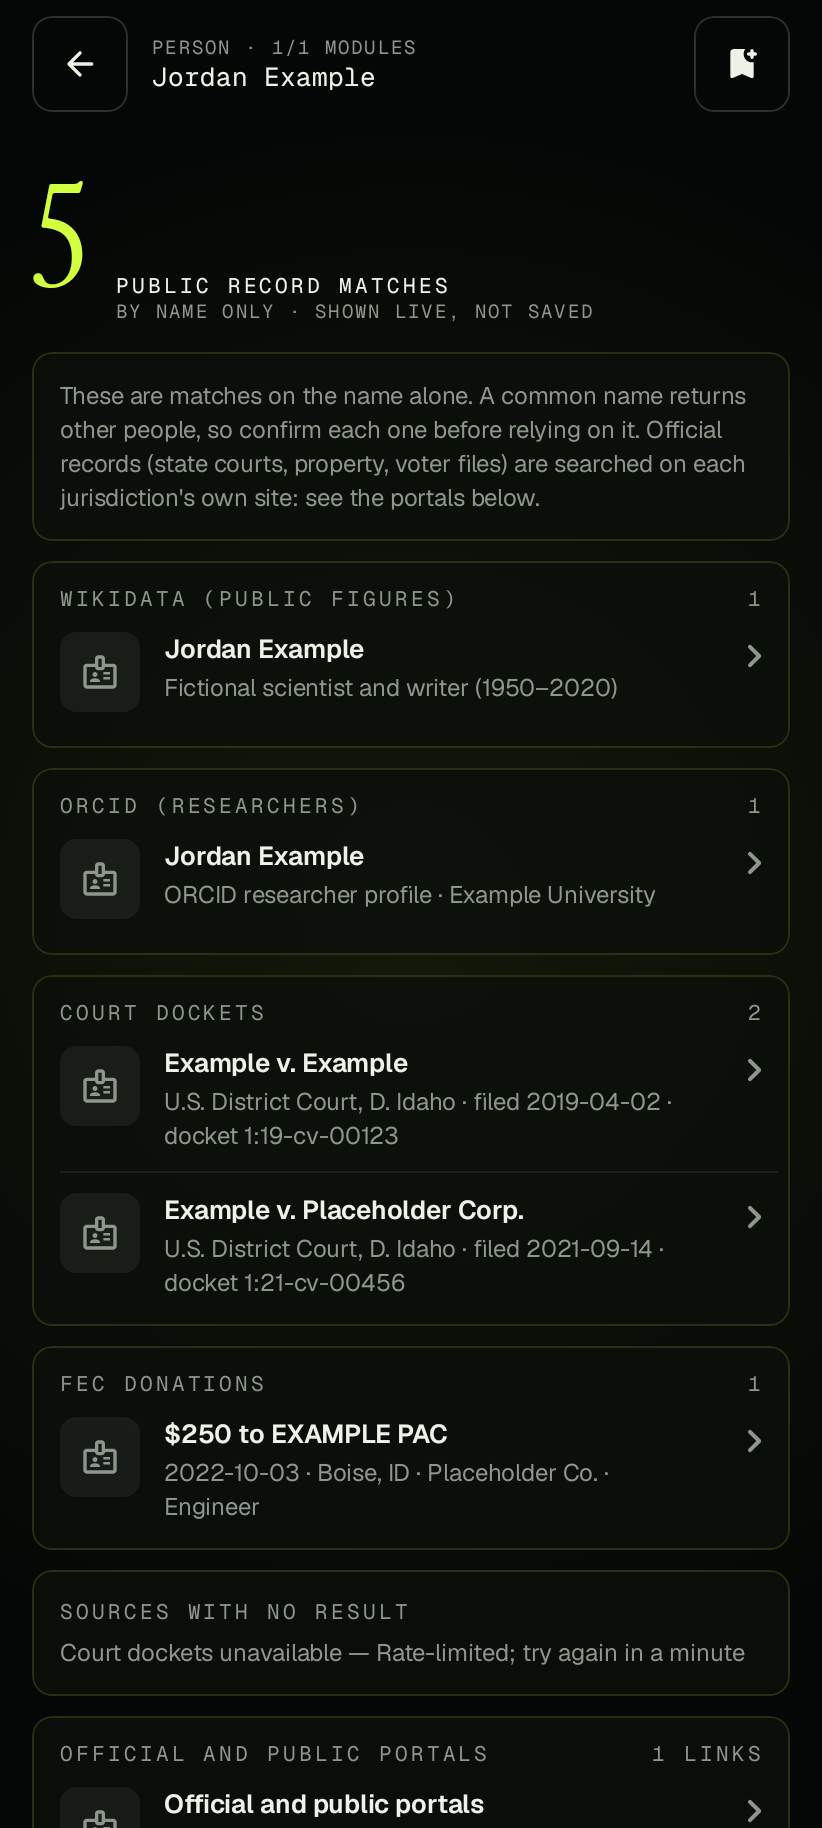
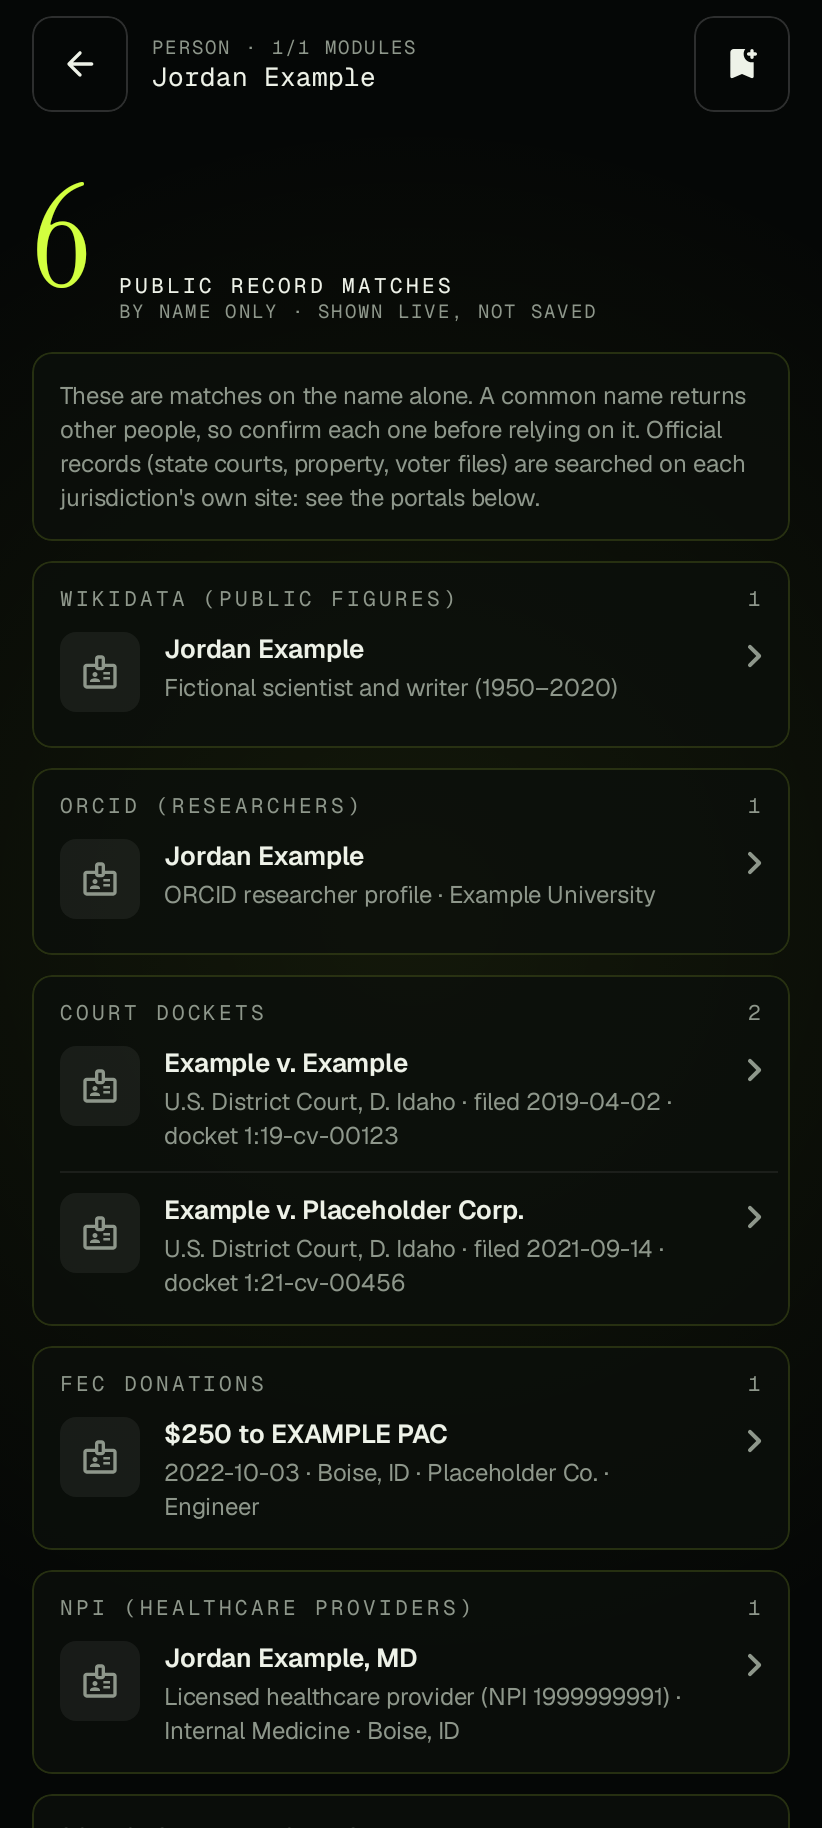
Name search: NPI registry and OpenAlex sources, FEC demo-key fallback, people-finder sites as browser links
Claude-Session: https://claude.ai/code/session_018A3LeNHC25Dd1z2KQ4XMJz

diff --git a/app/src/main/kotlin/vip/ringling/recon/data/sources/people/People.kt b/app/src/main/kotlin/vip/ringling/recon/data/sources/people/People.kt
@@ -85,7 +85,63 @@ object PeopleParsers {
             )
         }.take(10)
 
-    /** Official and public portals with the name filled in where the portal supports it. No people-finder or data-broker sites. */
+    private fun titleCase(s: String) = s.lowercase().split(' ').joinToString(" ") { w -> w.split('-').joinToString("-") { p -> p.replaceFirstChar { it.uppercase() } } }
+
+    /** CMS NPI registry (US healthcare providers). Only name, credential, specialty and practice city/state are read: never street addresses or phone numbers. */
+    fun npi(body: String): List<Finding> =
+        json.parseToJsonElement(body).jsonObject["results"]?.jsonArray.orEmpty().mapNotNull { e ->
+            val o = e.jsonObject; val number = o.s("number") ?: return@mapNotNull null
+            val basic = o["basic"]?.jsonObject ?: return@mapNotNull null
+            val name = listOfNotNull(basic.s("first_name"), basic.s("last_name")).joinToString(" ").let(::titleCase).ifBlank { return@mapNotNull null }
+            val credential = basic.s("credential")
+            val specialty = (o["taxonomies"] as? JsonArray).orEmpty().map { it.jsonObject }.let { t -> (t.firstOrNull { it["primary"].str() == "true" } ?: t.firstOrNull())?.s("desc") }
+            val addr = (o["addresses"] as? JsonArray).orEmpty().map { it.jsonObject }.let { a -> a.firstOrNull { it.s("address_purpose") == "LOCATION" } ?: a.firstOrNull() }
+            val where = listOfNotNull(addr?.s("city")?.let(::titleCase), addr?.s("state")).joinToString(", ")
+            hit("npi-$number", name + (credential?.let { ", $it" } ?: ""), listOfNotNull("Licensed healthcare provider (NPI $number)", specialty, where.ifBlank { null }).joinToString(" · "), "https://npiregistry.cms.hhs.gov/provider-view/$number", "NPI (healthcare providers)")
+        }.take(5)
+
+    /** OpenAlex author records (publications). */
+    fun openAlex(body: String): List<Finding> =
+        json.parseToJsonElement(body).jsonObject["results"]?.jsonArray.orEmpty().mapNotNull { e ->
+            val o = e.jsonObject; val id = o.s("id") ?: return@mapNotNull null; val name = o.s("display_name") ?: return@mapNotNull null
+            val inst = (o["last_known_institutions"] as? JsonArray).orEmpty().mapNotNull { it.jsonObject.s("display_name") }.firstOrNull()
+            val works = (o["works_count"] as? JsonPrimitive)?.contentOrNull; val cites = (o["cited_by_count"] as? JsonPrimitive)?.contentOrNull
+            hit("openalex-" + id.substringAfterLast('/'), name, listOfNotNull(works?.let { "$it publications" }, cites?.let { "$it citations" }, inst).joinToString(" · ").ifBlank { "Author record" }, id, "OpenAlex (publications)")
+        }.take(5)
+
+    /**
+     * Commercial people-finder sites, as plain links the user opens in their own browser. Recon never requests them, scrapes them or sends them anything.
+     * They aggregate public records, but their data is often old or wrong and may include home addresses and phone numbers.
+     */
+    fun finders(name: String): Finding {
+        val parts = name.trim().split(Regex("\\s+")).filter { it.isNotBlank() }
+        val first = parts.firstOrNull().orEmpty(); val last = parts.lastOrNull().orEmpty()
+        fun e(s: String) = URLEncoder.encode(s, "UTF-8").replace("+", "%20")
+        val dash = "$first-$last"
+        val links = listOf(
+            Link("TruePeopleSearch", "https://www.truepeoplesearch.com/results?name=${e(name)}"),
+            Link("FastPeopleSearch", "https://www.fastpeoplesearch.com/name/${e(dash.lowercase())}"),
+            Link("Whitepages", "https://www.whitepages.com/name/${e(dash)}"),
+            Link("Spokeo", "https://www.spokeo.com/${e(dash)}"),
+            Link("That's Them", "https://thatsthem.com/name/${e(dash)}"),
+            Link("Radaris", "https://radaris.com/p/${e(first)}/${e(last)}/"),
+            Link("PeekYou", "https://www.peekyou.com/${e("${first}_$last".lowercase())}"),
+            Link("ZabaSearch", "https://www.zabasearch.com/people/${e("$first $last".lowercase()).replace("%20", "+")}/"),
+            Link("FamilyTreeNow", "https://www.familytreenow.com/search/genealogy/results?first=${e(first)}&last=${e(last)}"),
+            Link("Intelius", "https://www.intelius.com/people-search/${e(dash)}"),
+            Link("BeenVerified", "https://www.beenverified.com/people/${e(dash.lowercase())}/"),
+            Link("Nuwber", "https://nuwber.com/search?name=${e(name)}"),
+            Link("Facebook people search", "https://www.facebook.com/public/${e(dash)}"),
+            Link("LinkedIn people search", "https://www.linkedin.com/pub/dir?firstName=${e(first)}&lastName=${e(last)}"),
+        )
+        return Finding(
+            "PEOPLE-finders", ModuleId.PEOPLE, "People-finder sites",
+            "Commercial sites that aggregate public records. Recon only opens them in your browser. Their data is often outdated or about someone else with the same name, can include home addresses and phone numbers, and some charge for the full report.",
+            Severity.INFO, confidence = Confidence.LOW, links = links,
+        )
+    }
+
+    /** Official and public portals with the name filled in where the portal supports it. (Commercial people-finder sites are in [finders].) */
     fun links(name: String): Finding {
         fun q(s: String) = URLEncoder.encode(s, "UTF-8")
         val quoted = "\"$name\""
@@ -105,7 +161,7 @@ object PeopleParsers {
         )
         return Finding(
             "PEOPLE-links", ModuleId.PEOPLE, "Official and public portals",
-            "Open these to search by name yourself. They are official or public sources; Recon doesn't query them or scrape people-finder sites. State court, property and voter records are searched on each state's or county's own site.",
+            "Open these to search by name yourself. They are official or public sources; Recon doesn't query them. State court, property and voter records are searched on each state's or county's own site.",
             Severity.INFO, confidence = Confidence.HIGH, links = links,
         )
     }
@@ -129,10 +185,13 @@ class PeopleSource @Inject constructor(
         launch { source("wikidata", "Wikidata") { wikidata(name) } }
         launch { source("orcid", "ORCID") { orcid(parts.first(), parts.last()) } }
         launch { source("court", "Court dockets") { courts(name) } }
-        val fecKey = keys.get(ApiKeyId.FEC)
-        if (fecKey == null) send(Finding("PEOPLE-fec-nokey", ModuleId.PEOPLE, "Campaign donations skipped", "Add a free api.data.gov key in System to include public political donations (FEC).", Severity.INFO))
-        else launch { source("fec", "FEC donations") { fec(name, fecKey) } }
+        launch { source("npi", "NPI healthcare providers") { npi(parts.first(), parts.last()) } }
+        launch { source("openalex", "OpenAlex publications") { openAlex(name) } }
+        // Your own free api.data.gov key lifts the FEC limit from 40/hour (the shared demo key) to 1,000/hour.
+        val fecKey = keys.get(ApiKeyId.FEC) ?: "DEMO_KEY"
+        launch { source("fec", "FEC donations") { fec(name, fecKey) } }
         send(PeopleParsers.links(name))
+        send(PeopleParsers.finders(name))
     }
 
     private suspend fun ProducerScope<Finding>.source(key: String, label: String, block: suspend () -> List<Finding>) {
@@ -146,7 +205,7 @@ class PeopleSource @Inject constructor(
 
     private suspend fun get(url: okhttp3.HttpUrl, vararg headers: Pair<String, String>): String =
         http.execute(Request.Builder().url(url).apply { headers.forEach { (k, v) -> header(k, v) } }.build()) { r ->
-            if (r.code == 429) throw HttpException(429, "Rate-limited; try again in a minute")
+            if (r.code == 429) throw HttpException(429, "Rate-limited; try again later (for FEC, add your own free key in System)")
             if (!r.isSuccessful) throw HttpException(r.code, "HTTP ${r.code}")
             r.body.string()
         }
@@ -172,5 +231,16 @@ class PeopleSource @Inject constructor(
         val url = "${endpoints.fec}/v1/schedules/schedule_a/".toHttpUrl().newBuilder().addQueryParameter("api_key", key).addQueryParameter("contributor_name", name)
             .addQueryParameter("per_page", "10").addQueryParameter("sort", "-contribution_receipt_date").build()
         return PeopleParsers.fec(get(url))
+    }
+
+    private suspend fun npi(first: String, last: String): List<Finding> {
+        if (first == last) return emptyList()
+        val url = "${endpoints.npi}/api/".toHttpUrl().newBuilder().addQueryParameter("version", "2.1").addQueryParameter("first_name", first).addQueryParameter("last_name", last).addQueryParameter("limit", "5").build()
+        return PeopleParsers.npi(get(url))
+    }
+
+    private suspend fun openAlex(name: String): List<Finding> {
+        val url = "${endpoints.openAlex}/authors".toHttpUrl().newBuilder().addQueryParameter("search", name).addQueryParameter("per-page", "5").build()
+        return PeopleParsers.openAlex(get(url, "Accept" to "application/json"))
     }
 }

diff --git a/app/src/test/kotlin/vip/ringling/recon/data/PeopleTest.kt b/app/src/test/kotlin/vip/ringling/recon/data/PeopleTest.kt
@@ -48,6 +48,16 @@ class PeopleTest {
         (wd + orcid + courts).forEach { assertTrue(BY_NAME_ONLY in it.detail && it.isPersonMatch && it.neutral && !it.scorable, it.id) }
     }
 
+    @Test fun npiAndOpenAlexParsersKeepOnlyPublicProfessionalFacts() {
+        val npi = PeopleParsers.npi(fixture("npi_people.json"))
+        assertEquals("Grace Hopper, MD", npi[0].title); assertEquals("Grace Hopper-Smith", npi[1].title)
+        assertTrue("Internal Medicine" in npi[0].detail && "Boise, ID" in npi[0].detail && "NPI 1999999991" in npi[0].detail)
+        assertTrue(npi.joinToString { it.detail + it.raw + it.facts }.let { "SECRET WAY" !in it && "208-555" !in it && "83702" !in it })
+        assertEquals("https://npiregistry.cms.hhs.gov/provider-view/1999999991", npi[0].url)
+        val oa = PeopleParsers.openAlex(fixture("openalex_people.json"))
+        assertTrue("42 publications" in oa[0].detail && "Example University" in oa[0].detail && oa[0].url == "https://openalex.org/A5000000001")
+    }
+
     @Test fun fecDonationsNeverCarryAStreetAddress() {
         val fec = PeopleParsers.fec(fixture("fec_people.json"))
         assertEquals("\$250 to EXAMPLE PAC", fec[0].title); assertTrue(fec[1].title.endsWith("to SAMPLE COMMITTEE"), fec[1].title)
@@ -56,24 +66,30 @@ class PeopleTest {
         assertTrue("BOISE, ID" in fec[0].detail && "PLACEHOLDER CO" in fec[0].detail)
     }
 
-    @Test fun linksPointToOfficialPortalsAndNeverToPeopleFinders() {
+    @Test fun officialPortalsAndPeopleFindersAreSeparateGroupsOfPlainLinks() {
         val f = PeopleParsers.links("Grace Hopper")
         val urls = f.links.joinToString("\n") { it.url }
         assertTrue("courtlistener.com" in urls && "nsopw.gov" in urls && "sec.gov" in urls && "brokercheck.finra.org" in urls && "Grace+Hopper" in urls)
-        listOf("spokeo", "whitepages", "truthfinder", "beenverified", "intelius", "peoplefinder", "radaris", "mylife").forEach { assertTrue(it !in urls.lowercase(), it) }
+        assertTrue(listOf("spokeo", "whitepages", "truepeoplesearch").none { it in urls.lowercase() }, "brokers are not mixed into the official list")
         assertTrue(f.id == "PEOPLE-links" && !f.scorable)
+        val finders = PeopleParsers.finders("Grace Q Hopper")
+        val fu = finders.links.joinToString("\n") { it.url }
+        assertTrue(finders.id == "PEOPLE-finders" && finders.links.size >= 12 && !finders.scorable && finders.module == ModuleId.PEOPLE)
+        assertTrue("spokeo.com/Grace-Hopper" in fu && "truepeoplesearch.com/results?name=Grace%20Q%20Hopper" in fu && "familytreenow.com" in fu && "first=Grace&last=Hopper" in fu, fu)
+        assertTrue("opens them in your browser" in finders.detail.replace("Recon only opens them in your browser", "opens them in your browser") && "outdated" in finders.detail)
     }
 
     @Test fun sourceRunsEverySourceAndOneFailureDoesNotHideTheOthers() = runTest {
         val (srv, router) = server(
             "/wd/" to { json(fixture("wikidata_people.json")) }, "/orcid/" to { json(fixture("orcid_people.json")) },
             "/cl/" to { MockResponse().setResponseCode(429).setBody("throttled") }, "/fec/" to { json(fixture("fec_people.json")) },
+            "/npi/" to { json(fixture("npi_people.json")) }, "/oa/" to { json(fixture("openalex_people.json")) },
         )
         try {
             val keys = InMemoryApiKeys(mapOf(ApiKeyId.FEC to "k123"))
             val out = PeopleSource(Http(), srv.endpoints(), keys).collect(person)
-            assertEquals(2 + 2 + 2, out.count { it.isPersonMatch }, out.map { it.id }.toString())
-            assertTrue(out.any { it.id == "PEOPLE-court-error" && "Rate-limited" in it.detail } && out.any { it.id == "PEOPLE-links" })
+            assertEquals(2 + 2 + 2 + 2 + 2, out.count { it.isPersonMatch }, out.map { it.id }.toString())
+            assertTrue(out.any { it.id == "PEOPLE-court-error" && "Rate-limited" in it.detail } && out.any { it.id == "PEOPLE-links" } && out.any { it.id == "PEOPLE-finders" })
             assertTrue(router.seen.any { it.path!!.startsWith("/fec/v1/schedules/schedule_a/") && "api_key=k123" in it.path!! && "contributor_name=Grace%20Hopper" in it.path!! }, router.seen.map { it.path }.toString())
             val wd = router.seen.first { it.path!!.startsWith("/wd/") }.path!!
             assertTrue("haswbstatement%3AP31%3DQ5" in wd || "haswbstatement:P31=Q5" in wd, wd)
@@ -81,12 +97,12 @@ class PeopleTest {
         } finally { srv.shutdown() }
     }
 
-    @Test fun withoutAnFecKeyDonationsAreSkippedNotQueried() = runTest {
-        val (srv, router) = server("/wd/" to { json("""{"query":{"search":[]}}""") }, "/orcid/" to { json("""{"expanded-result":null,"num-found":0}""") }, "/cl/" to { json("""{"results":[]}""") })
+    @Test fun withoutAnFecKeyTheSharedDemoKeyIsUsed() = runTest {
+        val (srv, router) = server("/wd/" to { json("""{"query":{"search":[]}}""") }, "/orcid/" to { json("""{"expanded-result":null,"num-found":0}""") }, "/cl/" to { json("""{"results":[]}""") }, "/npi/" to { json("""{"result_count":0}""") }, "/oa/" to { json("""{"results":[]}""") }, "/fec/" to { json("""{"results":[]}""") })
         try {
             val out = PeopleSource(Http(), srv.endpoints(), InMemoryApiKeys()).collect(person)
-            assertTrue(out.any { it.id == "PEOPLE-fec-nokey" } && router.seen.none { it.path!!.startsWith("/fec/") })
-            assertEquals(0, out.count { it.isPersonMatch }); assertTrue(out.any { it.id == "PEOPLE-wikidata-none" })
+            assertTrue(router.seen.any { it.path!!.startsWith("/fec/") && "api_key=DEMO_KEY" in it.path!! })
+            assertEquals(0, out.count { it.isPersonMatch }); assertTrue(out.any { it.id == "PEOPLE-wikidata-none" } && out.any { it.id == "PEOPLE-fec-none" })
         } finally { srv.shutdown() }
     }
 

diff --git a/app/src/main/kotlin/vip/ringling/recon/ui/results/PersonScreen.kt b/app/src/main/kotlin/vip/ringling/recon/ui/results/PersonScreen.kt
@@ -36,7 +36,7 @@ fun PersonScreen(state: ResultsUiState, actions: ResultsActions, modifier: Modif
     val sig = ReconTheme.signal
     val matches = state.findings.filter { it.isPersonMatch }
     val groups = matches.groupBy { it.tags.firstOrNull().orEmpty() }
-    val status = state.findings.filter { it.module == vip.ringling.recon.domain.ModuleId.PEOPLE && !it.isPersonMatch && it.id != "PEOPLE-links" }
+    val status = state.findings.filter { it.module == vip.ringling.recon.domain.ModuleId.PEOPLE && !it.isPersonMatch && it.id != "PEOPLE-links" && it.id != "PEOPLE-finders" }
     val portals = state.findings.firstOrNull { it.id == "PEOPLE-links" }
     Box(modifier.fillMaxSize().background(Brush.radialGradient(listOf(sig.signal.copy(alpha = 0.07f), Color.Transparent), radius = 800f))) {
         LazyColumn(
@@ -73,6 +73,7 @@ fun PersonScreen(state: ResultsUiState, actions: ResultsActions, modifier: Modif
                 }
             }
             portals?.let { p -> item(key = "portals") { FindingGroup("Official and public portals", "${p.links.size} links", listOf(p), state.handled, showSeverity = false, onOpen = actions.onFinding) } }
+            state.findings.firstOrNull { it.id == "PEOPLE-finders" }?.let { p -> item(key = "finders") { FindingGroup("People-finder sites", "${p.links.size} links", listOf(p), state.handled, showSeverity = false, showTags = false, onOpen = actions.onFinding) } }
             if (!state.running && state.findings.isEmpty()) item { Text("No sources answered. Check your connection.", color = sig.muted, style = MaterialTheme.typography.bodyMedium) }
         }
     }

diff --git a/app/src/test/kotlin/vip/ringling/recon/data/TestSupport.kt b/app/src/test/kotlin/vip/ringling/recon/data/TestSupport.kt
@@ -37,7 +37,7 @@ fun server(vararg routes: Pair<String, (RecordedRequest) -> MockResponse>): Pair
 fun MockWebServer.endpoints(): Endpoints {
     val base = url("/").toString().trimEnd('/')
     return Endpoints(
-        updateRepo = "testuser/OSINT-Tool", wikidata = "$base/wd", orcid = "$base/orcid", courtListener = "$base/cl", fec = "$base/fec", hibp = "$base/hibp", leakCheckApi = "$base/lc/v2", leakCheckPublic = "$base/lc/public",
+        updateRepo = "testuser/OSINT-Tool", wikidata = "$base/wd", orcid = "$base/orcid", courtListener = "$base/cl", fec = "$base/fec", npi = "$base/npi", openAlex = "$base/oa", hibp = "$base/hibp", leakCheckApi = "$base/lc/v2", leakCheckPublic = "$base/lc/public",
         doh = "$base/doh", crtSh = "$base/crt", rdap = "$base/rdap", spotify = "$base/spotify", gravatar = "$base/gravatar", idahoSor = "$base/idaho", github = "$base/gh", notes800 = "$base/notes", veriphone = "$base/veriphone", twilio = "$base/twilio", archive = "$base/archive", internetDb = "$base/idb", duolingo = "$base/duo", wordpress = "$base/wp", ipinfo = "$base/ipinfo", torList = "$base/tor", urlscan = "$base/urlscan", blockstream = "$base/bs", blockscout = "$base/scout",
     )
 }

diff --git a/app/src/main/kotlin/vip/ringling/recon/ui/radar/PersonSearchDialog.kt b/app/src/main/kotlin/vip/ringling/recon/ui/radar/PersonSearchDialog.kt
@@ -26,7 +26,7 @@ fun PersonSearchDialog(onSearch: (String) -> Unit, onDismiss: () -> Unit) {
         text = {
             Column(verticalArrangement = Arrangement.spacedBy(10.dp)) {
                 SignalTextField(name, { name = it }, "First Last", description = "Person's name", onGo = { if (valid) onSearch(name) })
-                Text("Searches official and open sources (Wikidata, ORCID, court dockets, and FEC donations with your own free key) and lists official portals to continue on.", color = sig.muted, style = MaterialTheme.typography.bodySmall)
+                Text("Searches open public sources (Wikidata, ORCID, OpenAlex, court dockets, the NPI provider registry and FEC donations) and lists official portals and people-finder sites to continue on. Those sites open in your browser; Recon sends them nothing.", color = sig.muted, style = MaterialTheme.typography.bodySmall)
                 Text("Results are matched by name only, so they can be other people. Use this lawfully: not to harass, stalk or intimidate anyone. Results are shown live and not saved.", color = sig.muted, style = MaterialTheme.typography.bodySmall)
             }
         },

diff --git a/app/src/main/kotlin/vip/ringling/recon/data/mock/MockData.kt b/app/src/main/kotlin/vip/ringling/recon/data/mock/MockData.kt
@@ -117,7 +117,9 @@ object MockData {
             hit("court-1", "Example v. ${input.raw.substringAfterLast(' ')}", "U.S. District Court, D. Idaho · filed 2019-04-02 · docket 1:19-cv-00123", "Court dockets"),
             hit("court-2", "${input.raw.substringAfterLast(' ')} v. Placeholder Corp.", "U.S. District Court, D. Idaho · filed 2021-09-14 · docket 1:21-cv-00456", "Court dockets"),
             hit("fec-1", "\$250 to EXAMPLE PAC", "2022-10-03 · Boise, ID · Placeholder Co. · Engineer", "FEC donations"),
+            hit("npi-1", "${input.raw}, MD", "Licensed healthcare provider (NPI 1999999991) · Internal Medicine · Boise, ID", "NPI (healthcare providers)"),
             Finding("PEOPLE-links", ModuleId.PEOPLE, "Official and public portals", "Open these to search by name yourself.", Severity.INFO, links = listOf(Link("Federal court cases (PACER Case Locator)", "https://pcl.uscourts.gov/"))),
+            vip.ringling.recon.data.sources.people.PeopleParsers.finders(input.raw),
         )
     }
 

diff --git a/app/src/main/kotlin/vip/ringling/recon/data/net/Endpoints.kt b/app/src/main/kotlin/vip/ringling/recon/data/net/Endpoints.kt
@@ -27,6 +27,8 @@ data class Endpoints(
     val orcid: String = "https://pub.orcid.org",
     val courtListener: String = "https://www.courtlistener.com",
     val fec: String = "https://api.open.fec.gov",
+    val npi: String = "https://npiregistry.cms.hhs.gov",
+    val openAlex: String = "https://api.openalex.org",
     val updateRepo: String = vip.ringling.recon.BuildConfig.UPDATE_REPO,
     val idahoSor: String = "https://apps.isp.idaho.gov/sor_id",
 )

diff --git a/CLAUDE.md b/CLAUDE.md
@@ -189,7 +189,8 @@ Private, sideloaded app. Repo: the GitHub repo this was cloned from (its owner i
 ## Public-records name search (added 2026-10-17)
 - `InputType.PERSON` ("Name search" button on Radar; NEVER auto-detected) and `ModuleId.PEOPLE`. `InputType.countsOnly` (ZIP, PERSON) = live lookup, neutral count instead of a risk score, snapshot stores only the count, findings are NEVER saved to History and not exportable (`ScanController` strips PEOPLE like REGISTRY; `Export.exportable`).
 - Sources (`data/sources/people/People.kt`, all "matched by name only", LOW confidence): Wikidata humans (`haswbstatement:P31=Q5`, live-verified), ORCID (live-verified), CourtListener RECAP dockets (anonymous; may 429; shape from docs), FEC individual donations (optional free api.data.gov key `ApiKeyId.FEC`; shape from docs; city/state/employer only, NEVER street addresses), plus a links finding to official/public portals (PACER, NSOPW, EDGAR, BrokerCheck, OpenCorporates, Scholar, Patents, News).
-- Deliberately NOT included: people-finder / data-broker sites (Spokeo, Whitepages, ...) and home addresses/phones; tested. OpenCorporates' API needs a token and GDELT limits to 1 req / 5 s, so they are links only.
+- Also: NPI registry (CMS, keyless, live-verified: name, credential, specialty, practice city/state only) and OpenAlex (publications; keyless, may 429). FEC falls back to the shared `DEMO_KEY` (40/hour) when the user has no key.
+- People-finder sites (Spokeo, Whitepages, TruePeopleSearch, ...) are included by the USER'S EXPLICIT REQUEST as plain browser LINKS only (`PeopleParsers.finders`, separate "PEOPLE-finders" finding with a data-quality warning). Recon never requests, scrapes or sends them anything. Do not add scraping of them. Home addresses/phones are never read from any API source. OpenCorporates' API needs a token and GDELT limits to 1 req / 5 s, so they are links only.
 - UI: `PersonSearchDialog` (states the lawful-use notice), `PersonScreen` (match count, source groups, "sources with no result", portals).
 
 ## Open items / notes
